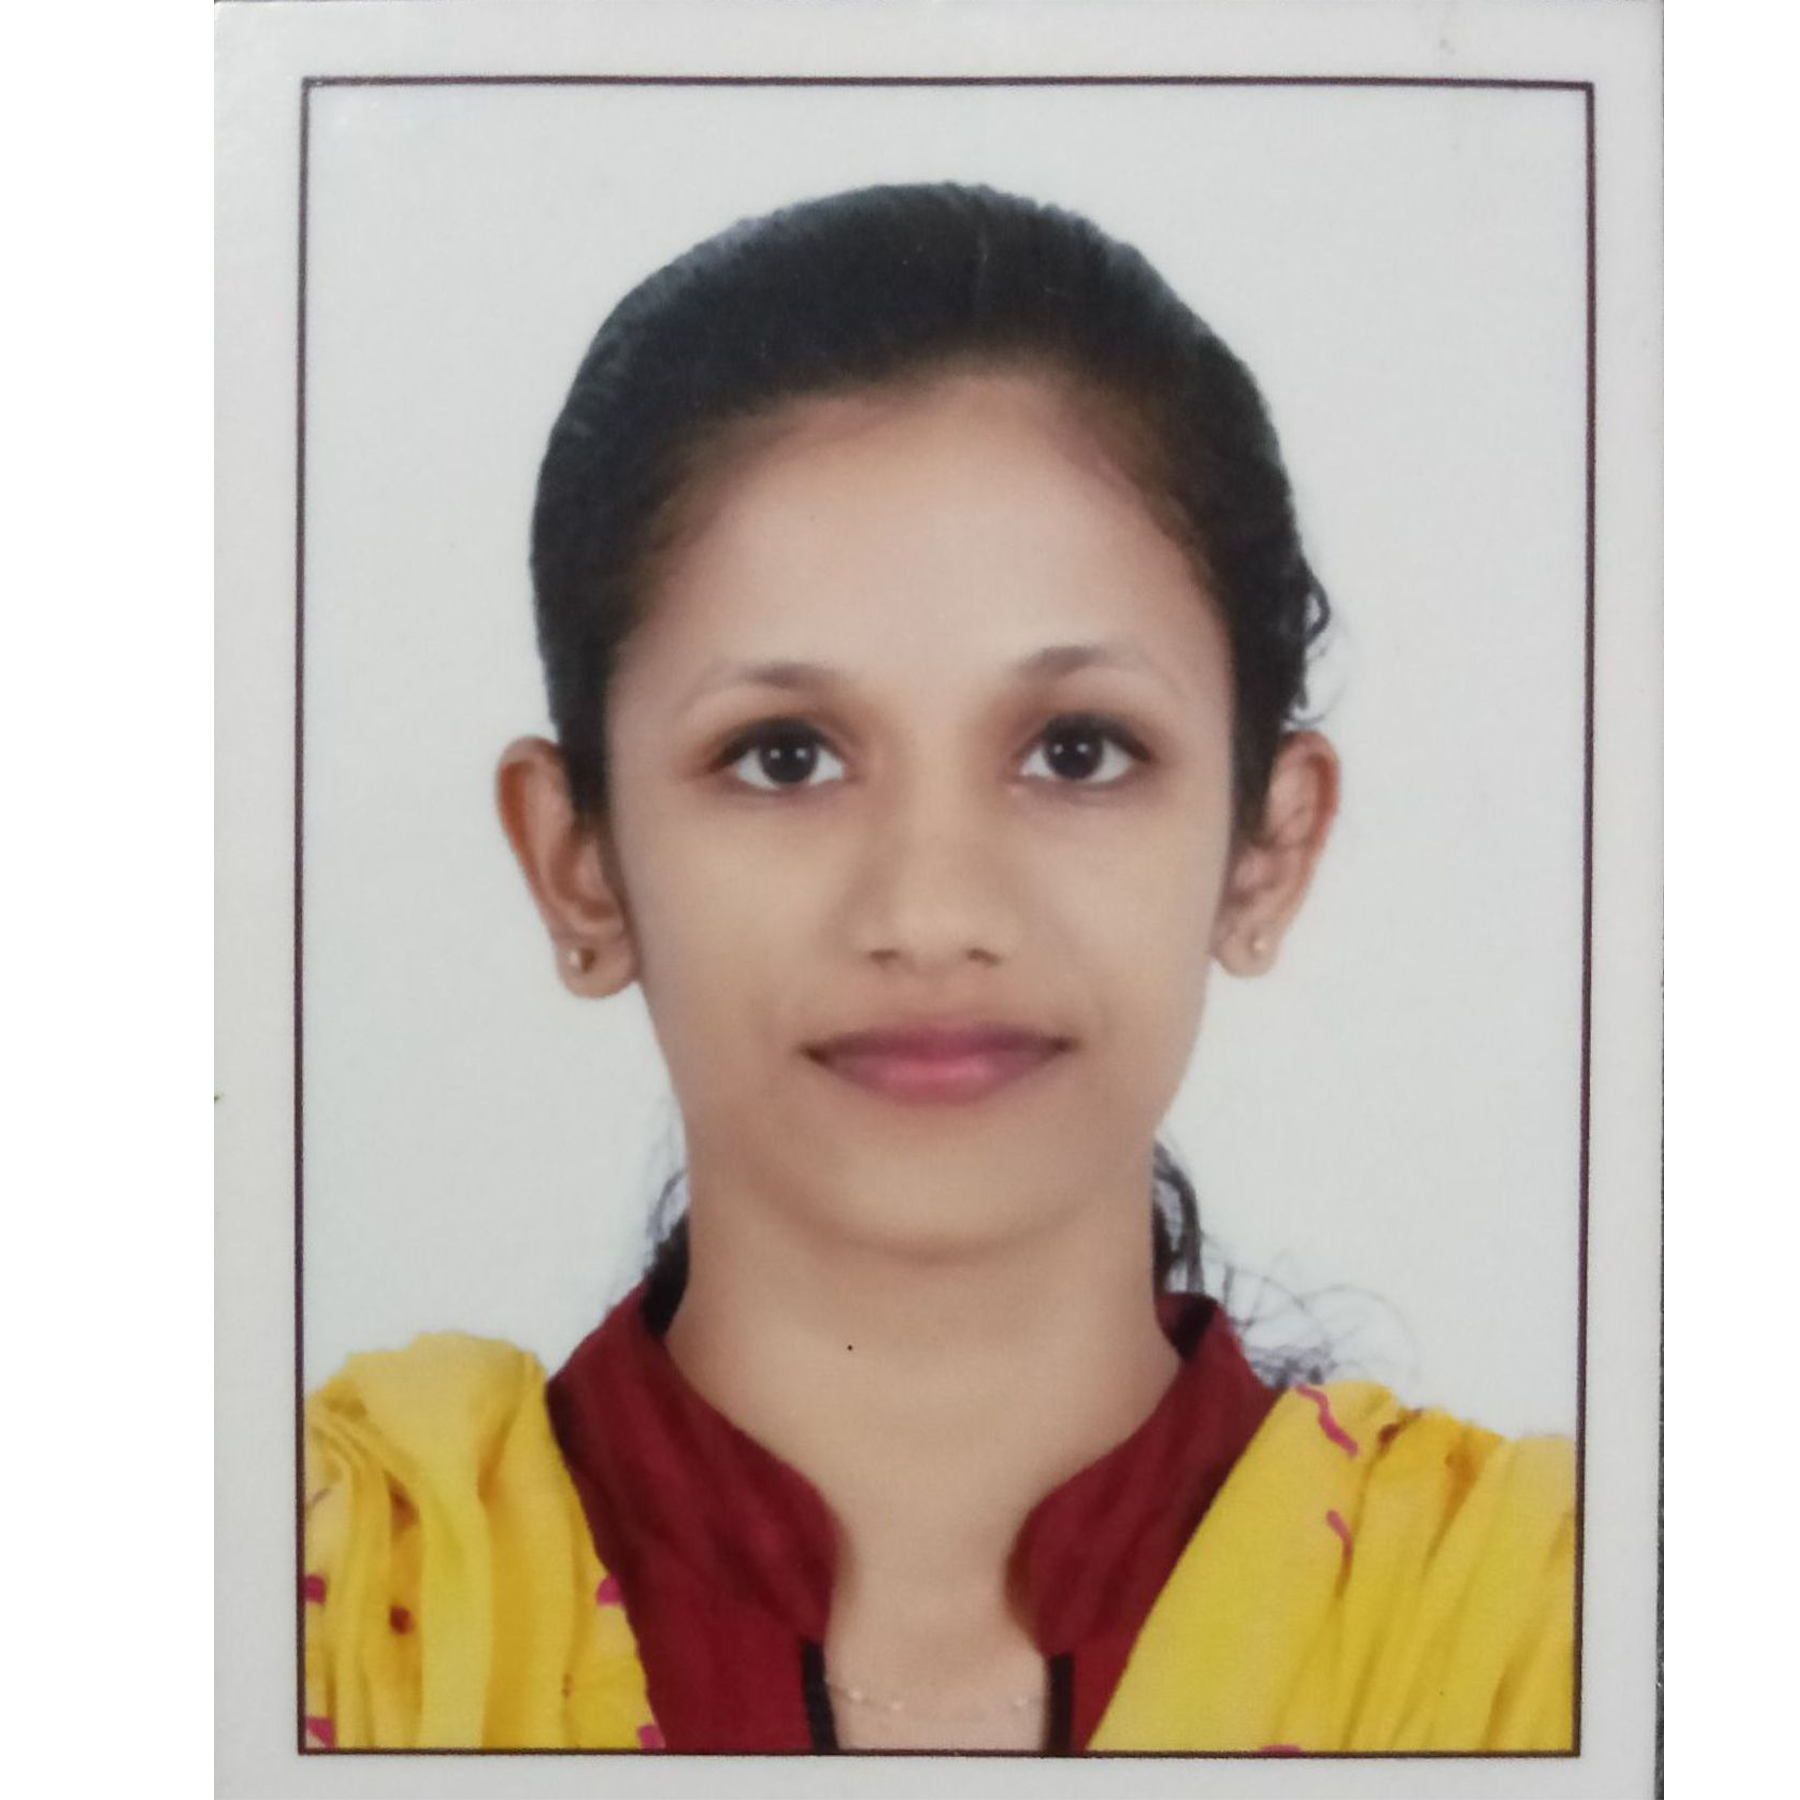
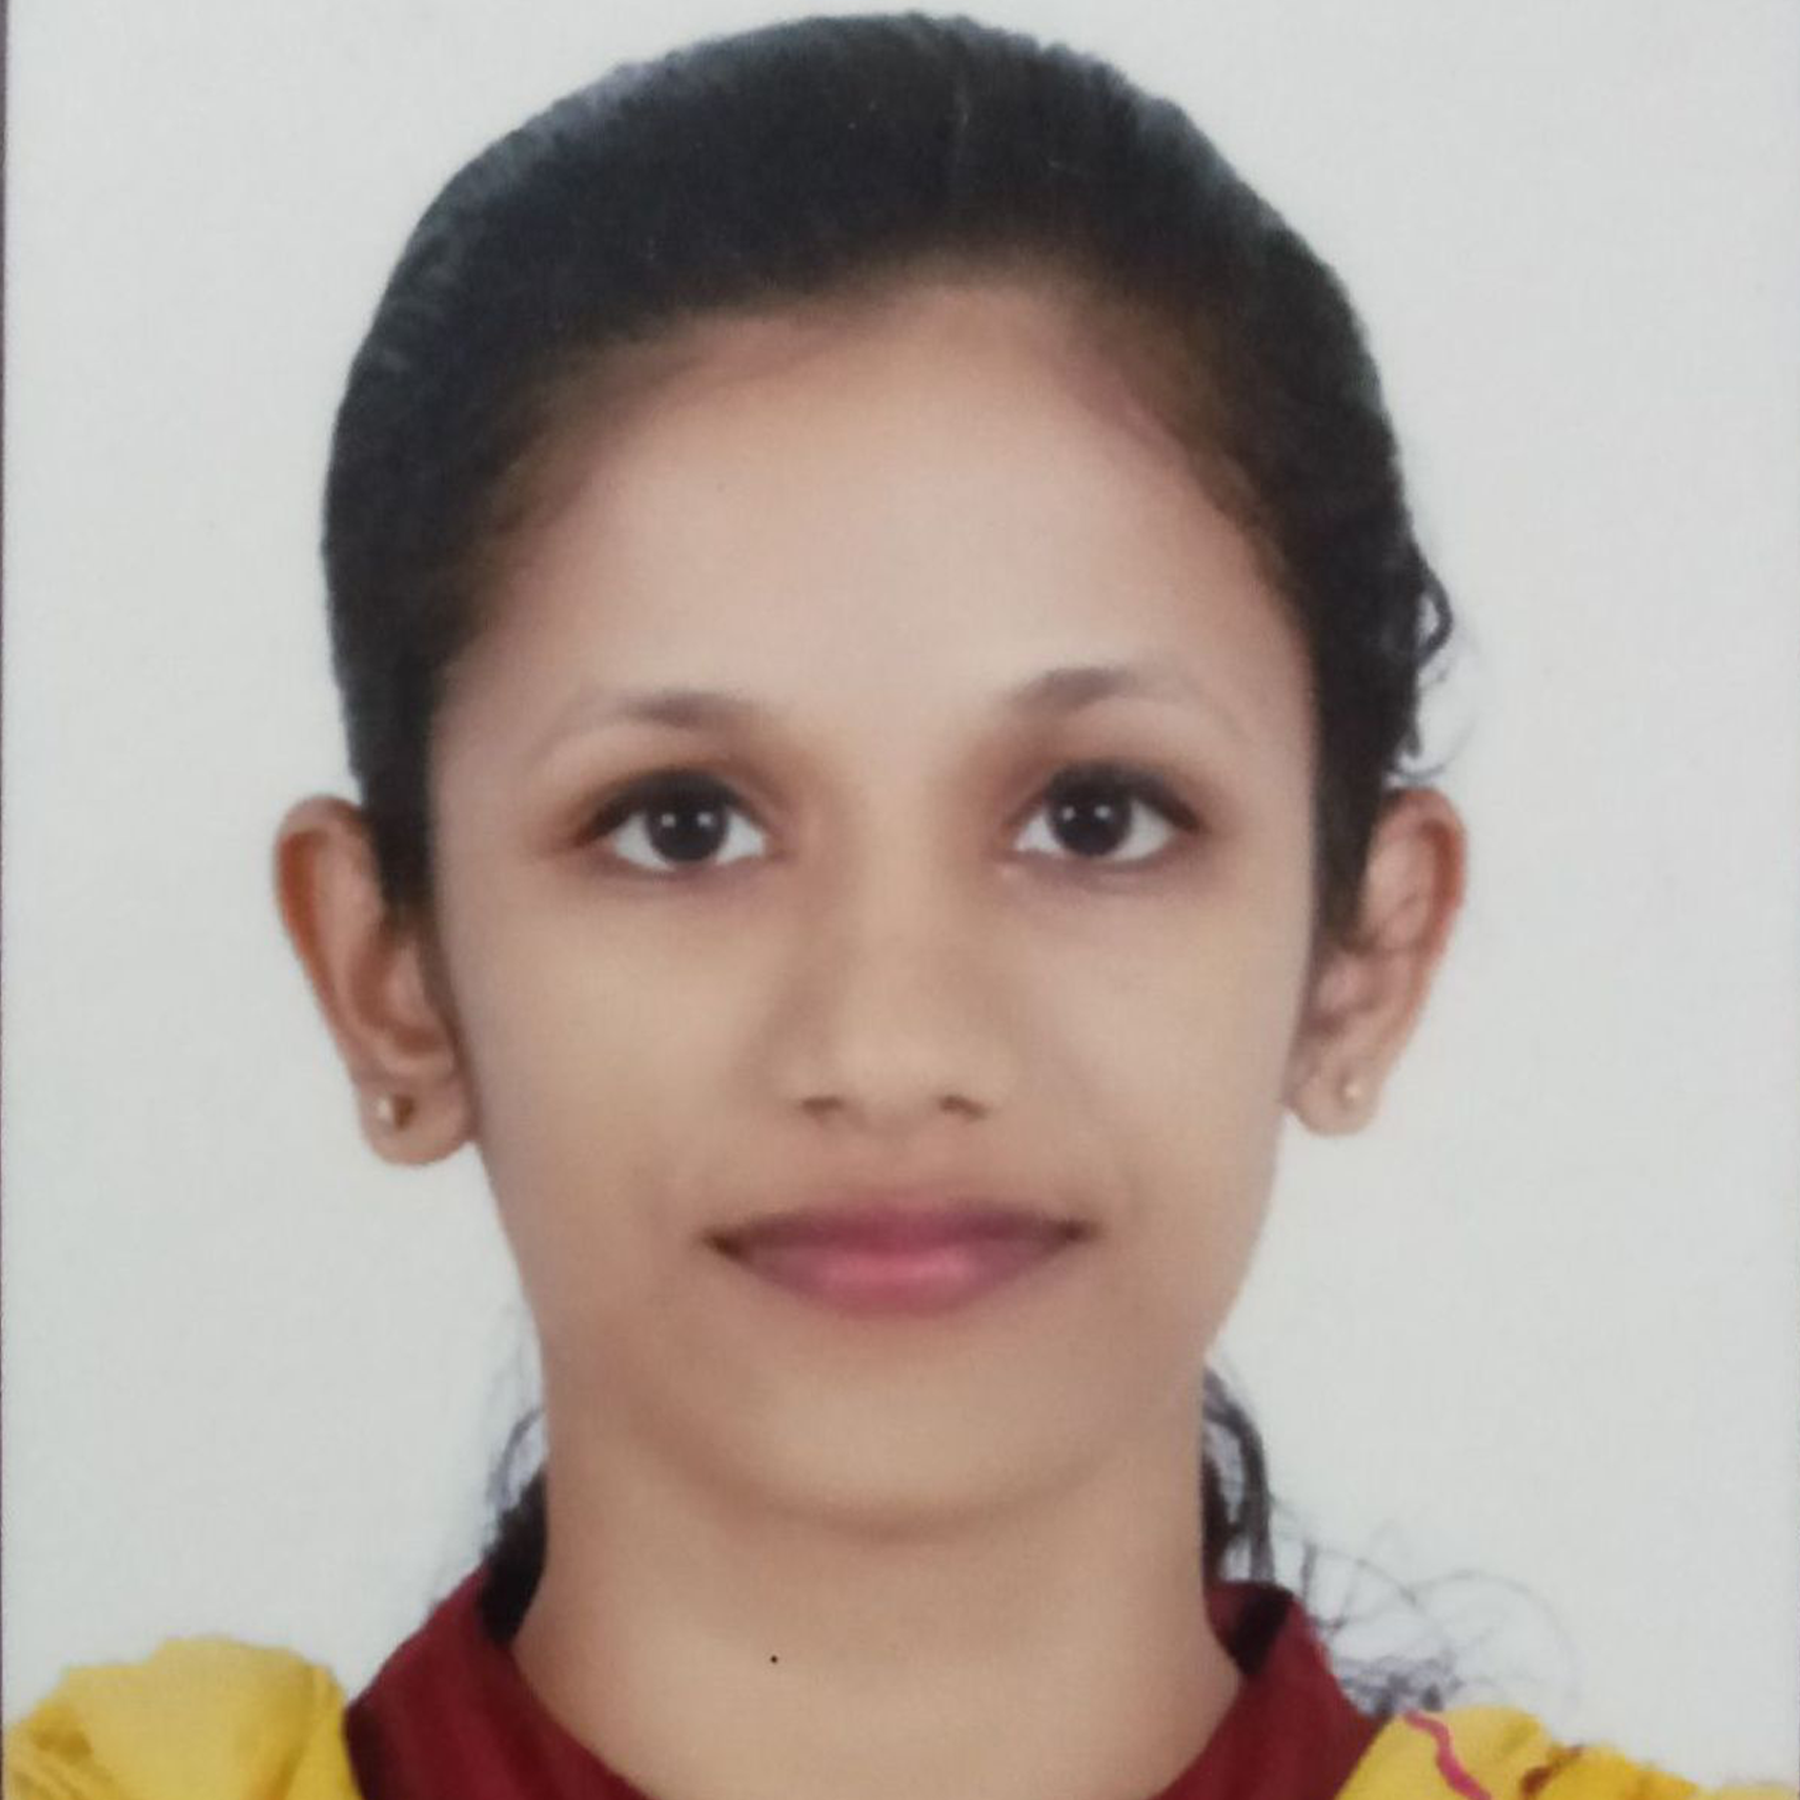
fixed careers image

diff --git a/pages/careers.html b/pages/careers.html
@@ -255,6 +255,7 @@
               <div class="team-col">
                 <div class="team-image-div">
                   <img
+                    style="top: 20px !important"
                     class="team-img"
                     src="../assets/careers/Jinisha Jobin.jpg"
                     alt=""
@@ -297,7 +298,7 @@
               <div class="team-col">
                 <div class="team-image-div">
                   <img
-                    style="height: 320px"
+                    style="margin-top: 27px !important"
                     class="team-img"
                     src="../assets/careers/Monisha.jpeg"
                     alt=""
@@ -424,7 +425,6 @@
               <div class="team-col">
                 <div class="team-image-div">
                   <img
-                    style="width: 620px; background-size: cover"
                     class="team-img"
                     src="../assets/careers/Alka infosys.png"
                     alt=""
@@ -444,7 +444,7 @@
                 </div>
               </div>
               <div class="team-col">
-                <div class="team-image-div">
+                <div class="team-image-div" style="overflow: hidden">
                   <img
                     class="team-img"
                     src="../assets/careers/Almi UST.png"
@@ -468,7 +468,7 @@
                 <div class="team-image-div">
                   <img
                     class="team-img"
-                    src="../assets/careers/Joel Joy Quest.png"
+                    src="../assets/careers/Joel Joy Quest.jpg"
                     alt=""
                   />
                   <div
